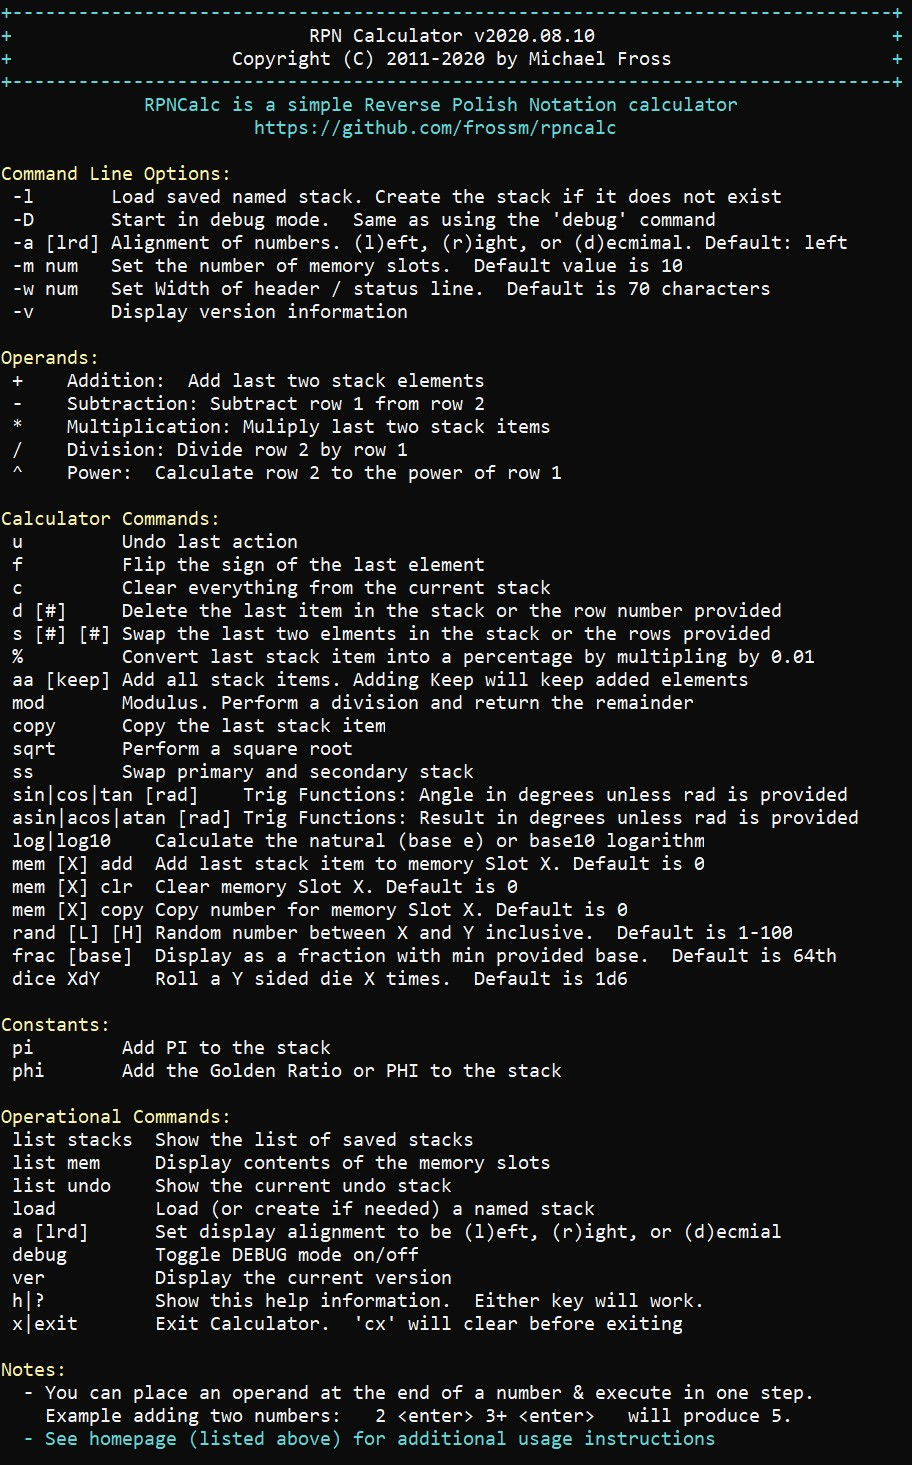
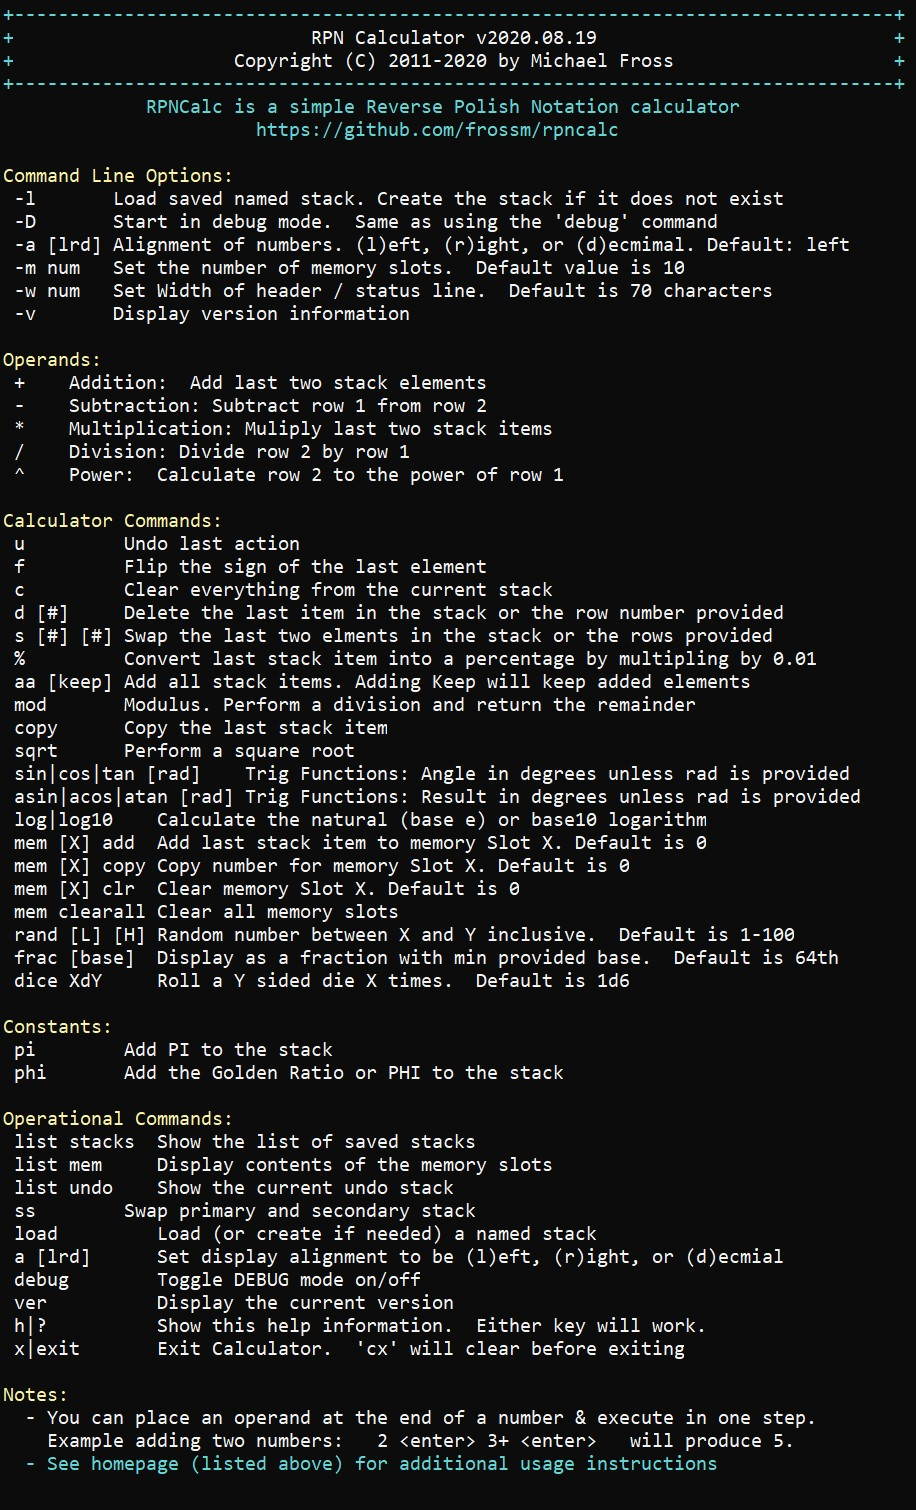
Added 'mem clearall' command

Changed region(s): [[0.0, 0.0, 0.9518, 1.0], [0.9825, 0.0, 1.0, 0.0614], [0.0, 0.0, 0.0307, 0.0614]]

diff --git a/src/main/java/org/fross/rpncalc/Help.java b/src/main/java/org/fross/rpncalc/Help.java
@@ -76,13 +76,13 @@ public class Help {
 		Output.printColorln(Ansi.Color.WHITE, " mod       Modulus. Perform a division and return the remainder");
 		Output.printColorln(Ansi.Color.WHITE, " copy      Copy the last stack item");
 		Output.printColorln(Ansi.Color.WHITE, " sqrt      Perform a square root");
-		Output.printColorln(Ansi.Color.WHITE, " ss        Swap primary and secondary stack");
 		Output.printColorln(Ansi.Color.WHITE, " sin|cos|tan [rad]    Trig Functions: Angle in degrees unless rad is provided");
 		Output.printColorln(Ansi.Color.WHITE, " asin|acos|atan [rad] Trig Functions: Result in degrees unless rad is provided");
 		Output.printColorln(Ansi.Color.WHITE, " log|log10    Calculate the natural (base e) or base10 logarithm");
 		Output.printColorln(Ansi.Color.WHITE, " mem [X] add  Add last stack item to memory Slot X. Default is 0");
-		Output.printColorln(Ansi.Color.WHITE, " mem [X] clr  Clear memory Slot X. Default is 0");
 		Output.printColorln(Ansi.Color.WHITE, " mem [X] copy Copy number for memory Slot X. Default is 0");
+		Output.printColorln(Ansi.Color.WHITE, " mem [X] clr  Clear memory Slot X. Default is 0");
+		Output.printColorln(Ansi.Color.WHITE, " mem clearall Clear all memory slots");
 		Output.printColorln(Ansi.Color.WHITE, " rand [L] [H] Random number between X and Y inclusive.  Default is 1-100");
 		Output.printColorln(Ansi.Color.WHITE, " frac [base]  Display as a fraction with min provided base.  Default is 64th");
 		Output.printColorln(Ansi.Color.WHITE, " dice XdY     Roll a Y sided die X times.  Default is 1d6");
@@ -95,6 +95,7 @@ public class Help {
 		Output.printColorln(Ansi.Color.WHITE, " list stacks  Show the list of saved stacks");
 		Output.printColorln(Ansi.Color.WHITE, " list mem     Display contents of the memory slots");
 		Output.printColorln(Ansi.Color.WHITE, " list undo    Show the current undo stack");
+		Output.printColorln(Ansi.Color.WHITE, " ss        Swap primary and secondary stack");
 		Output.printColorln(Ansi.Color.WHITE, " load         Load (or create if needed) a named stack");
 		Output.printColorln(Ansi.Color.WHITE, " a [lrd]      Set display alignment to be (l)eft, (r)ight, or (d)ecmial");
 		Output.printColorln(Ansi.Color.WHITE, " debug        Toggle DEBUG mode on/off");

diff --git a/src/main/java/org/fross/rpncalc/StackOps.java b/src/main/java/org/fross/rpncalc/StackOps.java
@@ -790,6 +790,14 @@ public class StackOps {
 				memorySlots[memSlot] = null;
 				break;
 
+			case "clrall":
+			case "clearall":
+				Output.debugPrint("Clearing All Memory Slots");
+				for (int i = 0; i < memorySlots.length; i++) {
+					memorySlots[i] = null;
+				}
+				break;
+				
 			// Copy the value from the memory slot provided back onto the stack
 			case "copy":
 			case "recall":

diff --git a/README.md b/README.md
@@ -125,9 +125,9 @@ The following is the list of operands supported by RPNCalc:
 |asin, acos, atan [rad]|Calculate the arc trigonometry function.  Result is returned as degrees unless rad parameter is provided|
 |log, log10|Calculates the natural logarithm (base e) or the base10 logarithm|
 |mem [slot] add|Add the top stack item (line 1) into the memory slot provided.  By default, there are 10 slots; 0 through 9.  If you do not provide a slot number it will simply default to slot 0.  Example:  `mem add`   will add the last stack item into Mem Slot0|
-|mem [slot] clr|Clear the contents of the memory slot provided.  Defaults to Slot0 if no slot is provided.  Example: `mem 2 clr`  The command `clear` can also be used instead of `clr`|
 |mem [slot] copy|Copies the contents of memory slot provided back onto the stack.  Defaults to Slot0 if no slot number is provided.  `recall` can also be used instead of `copy`|
-|ss|Swap the current stack with the secondary. The primary and secondary stacks are described above in the Stacks section.  Executing `ss` again will swap them back.  The secondary stack it just a place to do a bit of other work then you can swap back.  They are in no way connected.  The secondary stack is also saved upon exit|
+|mem [slot] clr|Clear the contents of the memory slot provided.  Defaults to Slot0 if no slot is provided.  Example: `mem 2 clr`  The command `clear` can also be used instead of `clr`|
+|mem clearall|Clear the contents of all memory slots.  Not sure why this would be needed, but seems like something that should be here.  There is no need to include a SlotNumber. Note `mem clrall` will also work|
 |rand [l] [h]|Generate a random integer number between the provided [l]ow and [h]igh numbers inclusive to both.  If no numbers are provided, then the random number will be between 1 and 100 inclusive|
 |frac [base]|Display a fractional estimate of the last stack item with the maximum granularity of 1/base.  Default is 1/64th.  Only decimals are stored on the stack but this command will display the results.  For example, if you had **1.1234** on the stack, `frac` would show you `1.1234 is approximately 1 1/8`  It would have used a base of 64 (which means maximum granularity would be 1/64.  However, it auto reduces which is why you get the `1 1/8`. if you entered frac 2 (which means 1/2 is maximum granularity, you get `1.1234 is approximately 1 0/1` or just one.  Need to fix that display oddity.|
 |dice XdY|Roll a Y sided die X times and add the results to the stack.  Default is 1d6. While not a normal calculator function, I find it fun|
@@ -145,6 +145,7 @@ The following is the list of operands supported by RPNCalc:
 |list mem|list the contents of all memory slots|
 |list undo|List the current undo stack.  This command will show you the saved undo stacks.  Basically what your stack will look like when you perform an undo|
 |load NAME|Load the named stack.  You can `load` a stack name even if it doesn't exist, and it will be created.  Exiting the program or loading another stack will save the current stack|
+|ss|Swap the current stack with the secondary. The primary and secondary stacks are described above in the Stacks section.  Executing `ss` again will swap them back.  The secondary stack it just a place to do a bit of other work then you can swap back.  They are in no way connected.  The secondary stack is also saved upon exit|
 |debug|Toggle debug mode which will display additional information on what's happening internally to the program.  Same as the `-D` command line switch.  Probably not the useful for a normal user|
 |a <l,d,r>| Align the display output to be l(eft), d(ecimal), or r(ight).  This is the same as the `-a <l, d, r>` command line switch|
 |ver| Display the current version number and copyright.  These can also be seen in the help screen|
